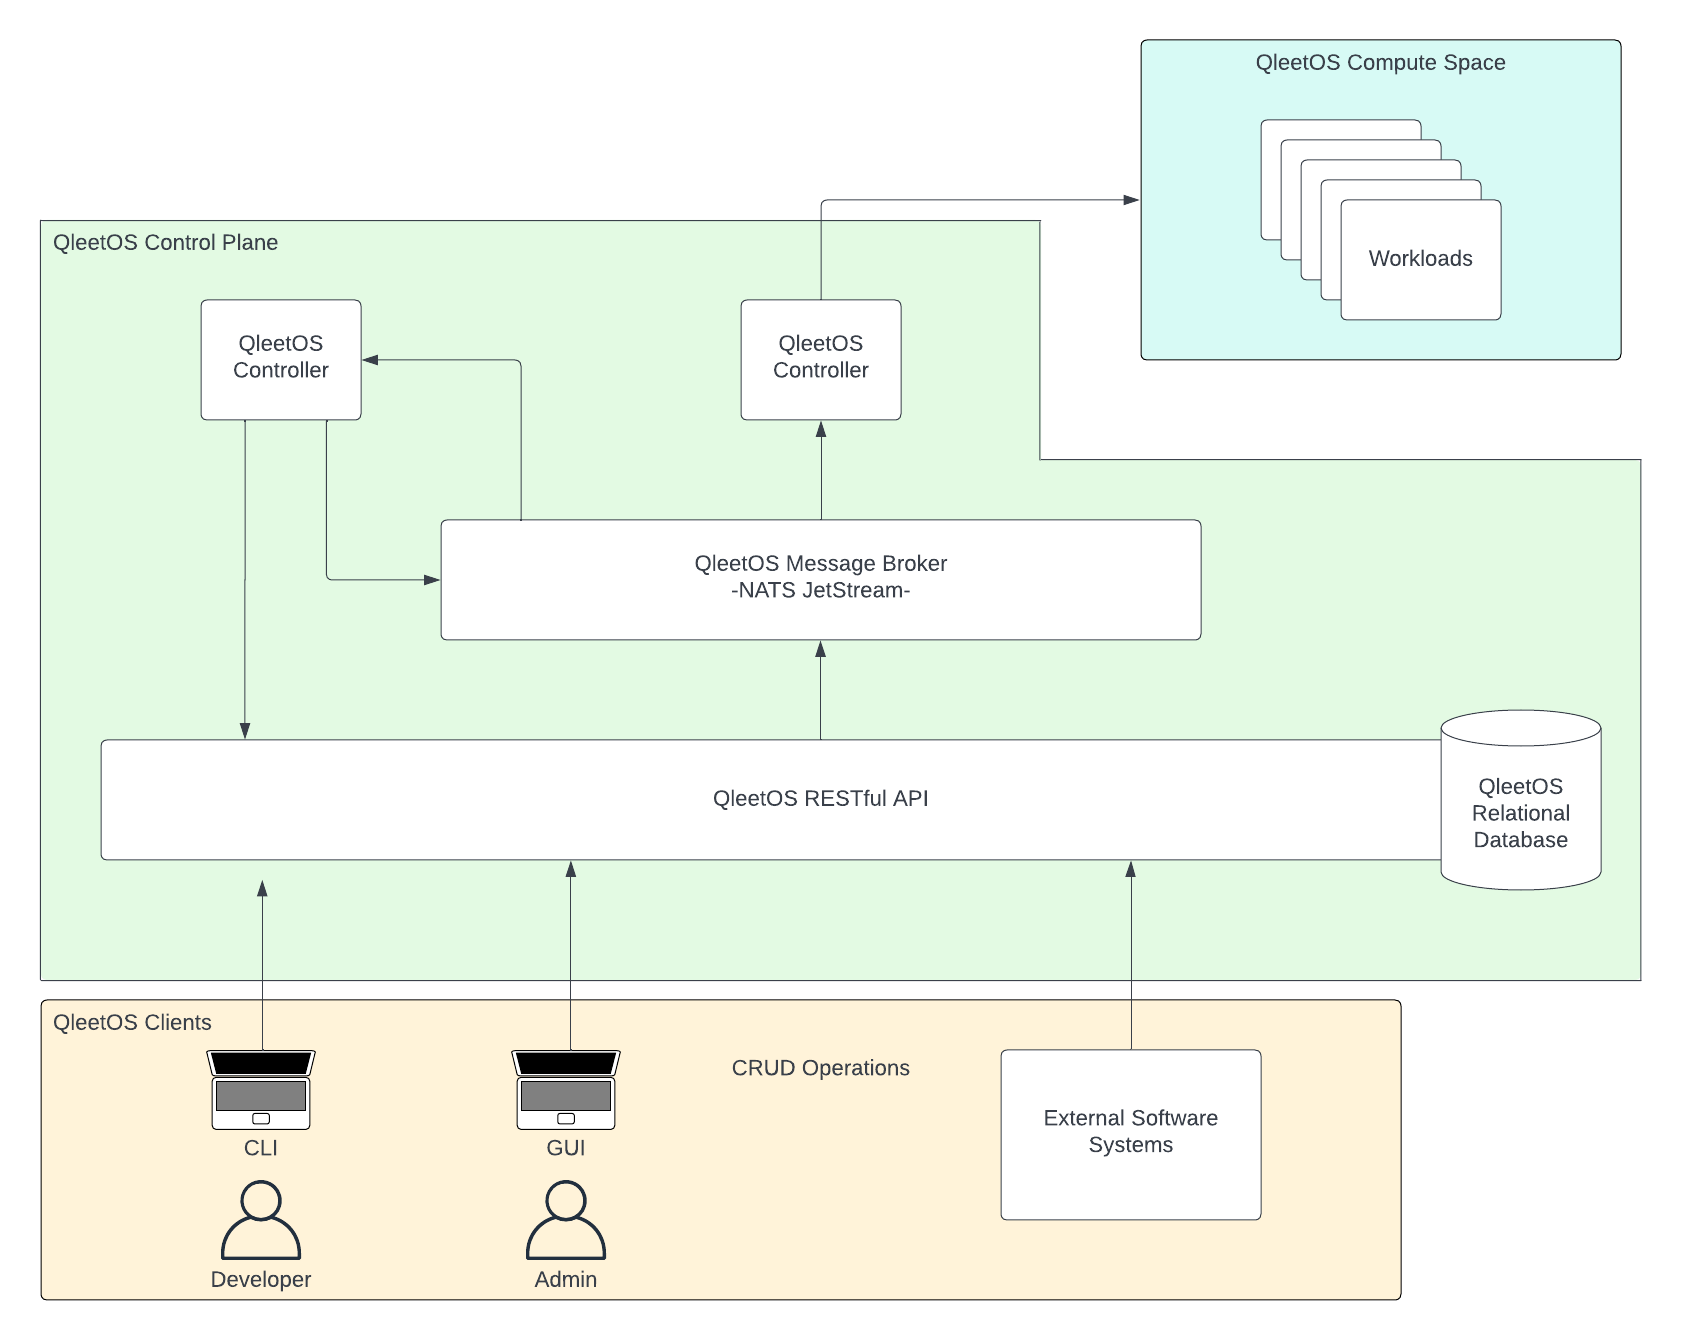
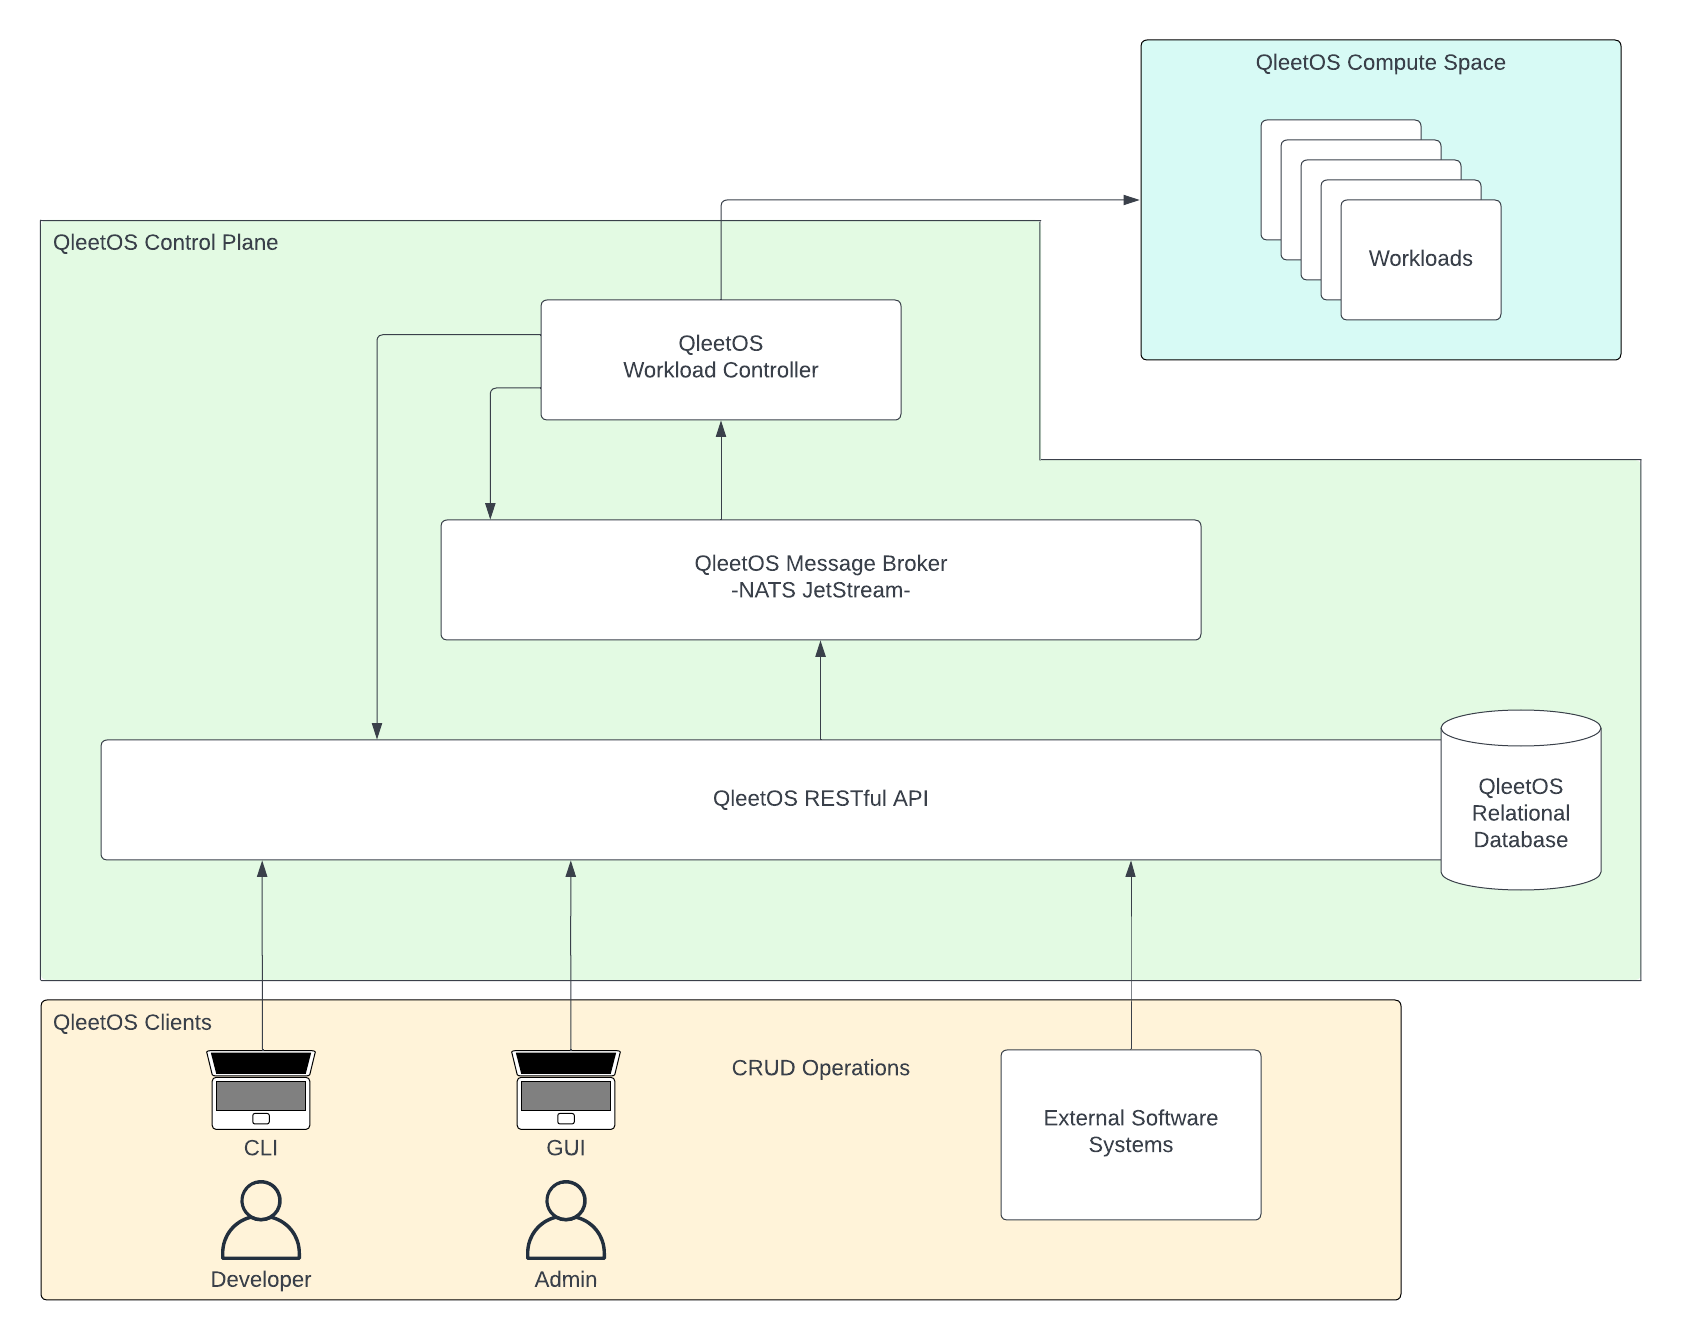
docs: add content to architecture page

Changed region(s): [[0.3092, 0.2142, 0.5256, 0.3366], [0.0927, 0.2142, 0.2473, 0.3366]]

diff --git a/docs/index.md b/docs/index.md
@@ -4,10 +4,10 @@ QleetOS is a distributed operating system for managing complex software
 deployments.
 
 If you're managing containerized software with any of the following
-requirements, QleetOS can help reduce operational toil, improve devloper
+requirements, QleetOS will help reduce operational toil, improve developer
 velocity and reduce production costs:
 
-* tangled dependencies
+* layered dependencies
 * autoscaling
 * multi-region
 * multi-cloud
@@ -22,10 +22,22 @@ and manages workloads into the compute space.
 The QleetOS control plane exposes a RESTful API that clients use to make changes
 to the system.  QleetOS controllers are responsible for managing the state of
 the system in response to changes made by clients.  When changes are made to
-running softare deployments, the controllers connect to the compute space and
+running software deployments, the controllers connect to the compute space and
 make the appropriate updates there.
 
 ![QleetOS Control Plane](img/QleetOSControlPlaneArchitecture.png)
+
+This diagram illustrates Workload Controller operations at a high level.
+After a client makes a change to a workload, the API sends a notification to the
+message broker.  The message broker relays that message to the Workload
+Controller.  The Workload Controller does one or more of these three things as
+needed:
+
+1. Makes changes to the existing state of the system by connecting to the
+   compute space and managing Kubernetes resources there.
+2. Makes updates in the API to reflect those changes.
+3. Re-queues notifications with the message broker when subsequent
+   reconciliation is needed for some part of the system.
 
 ## Compute Space
 
@@ -35,4 +47,17 @@ providers that are supported by QleetOS in as many regions as needed to meet
 your apps' requirements.
 
 ![QleetOS Compute Space](img/QleetOSComputeSpaceArchitecture.png)
+
+This example shows a Web3 application that has the following dependencies:
+
+* A cluster to run on
+* Ingress routing for end-user requests
+* TLS termination of incoming HTTPS requests
+* An RPC node to gain access to a blockchain
+
+QleetOS is responsible for managing these dependencies.  In other words, you can
+deploy an application with no infrastructure in place.  QleetOS will provision a
+cluster as needed, install the supporting services like ingress traffic routing
+and TLS asset management, install direct dependencies like the RPC node, and
+finally deploy the workload itself.
 
